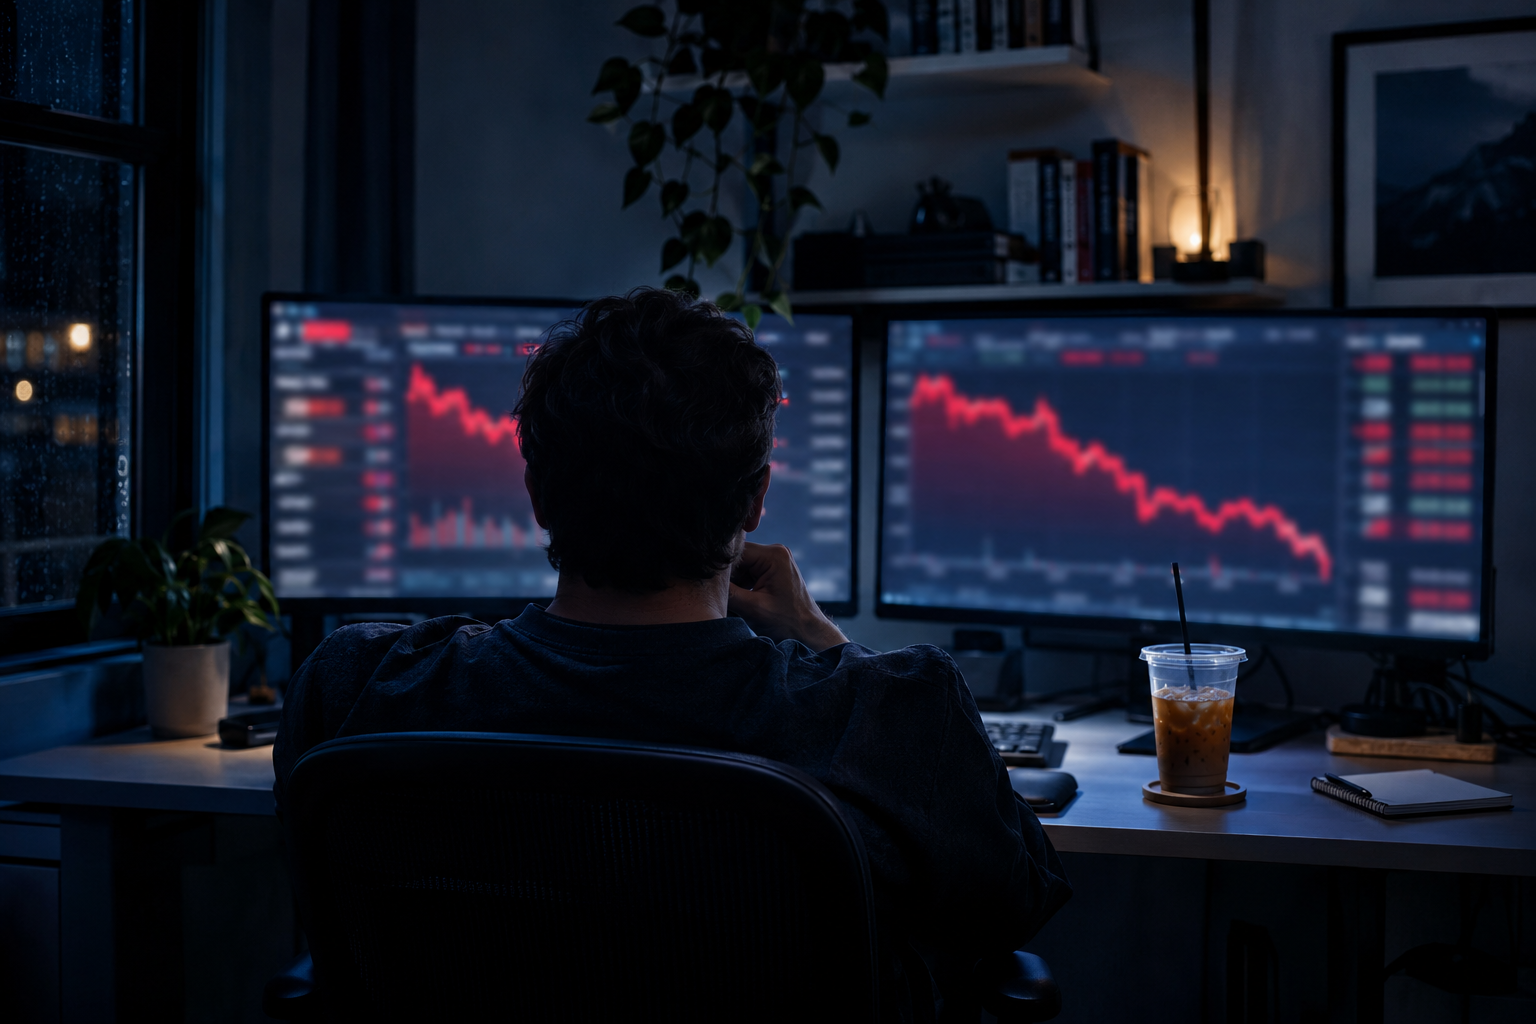
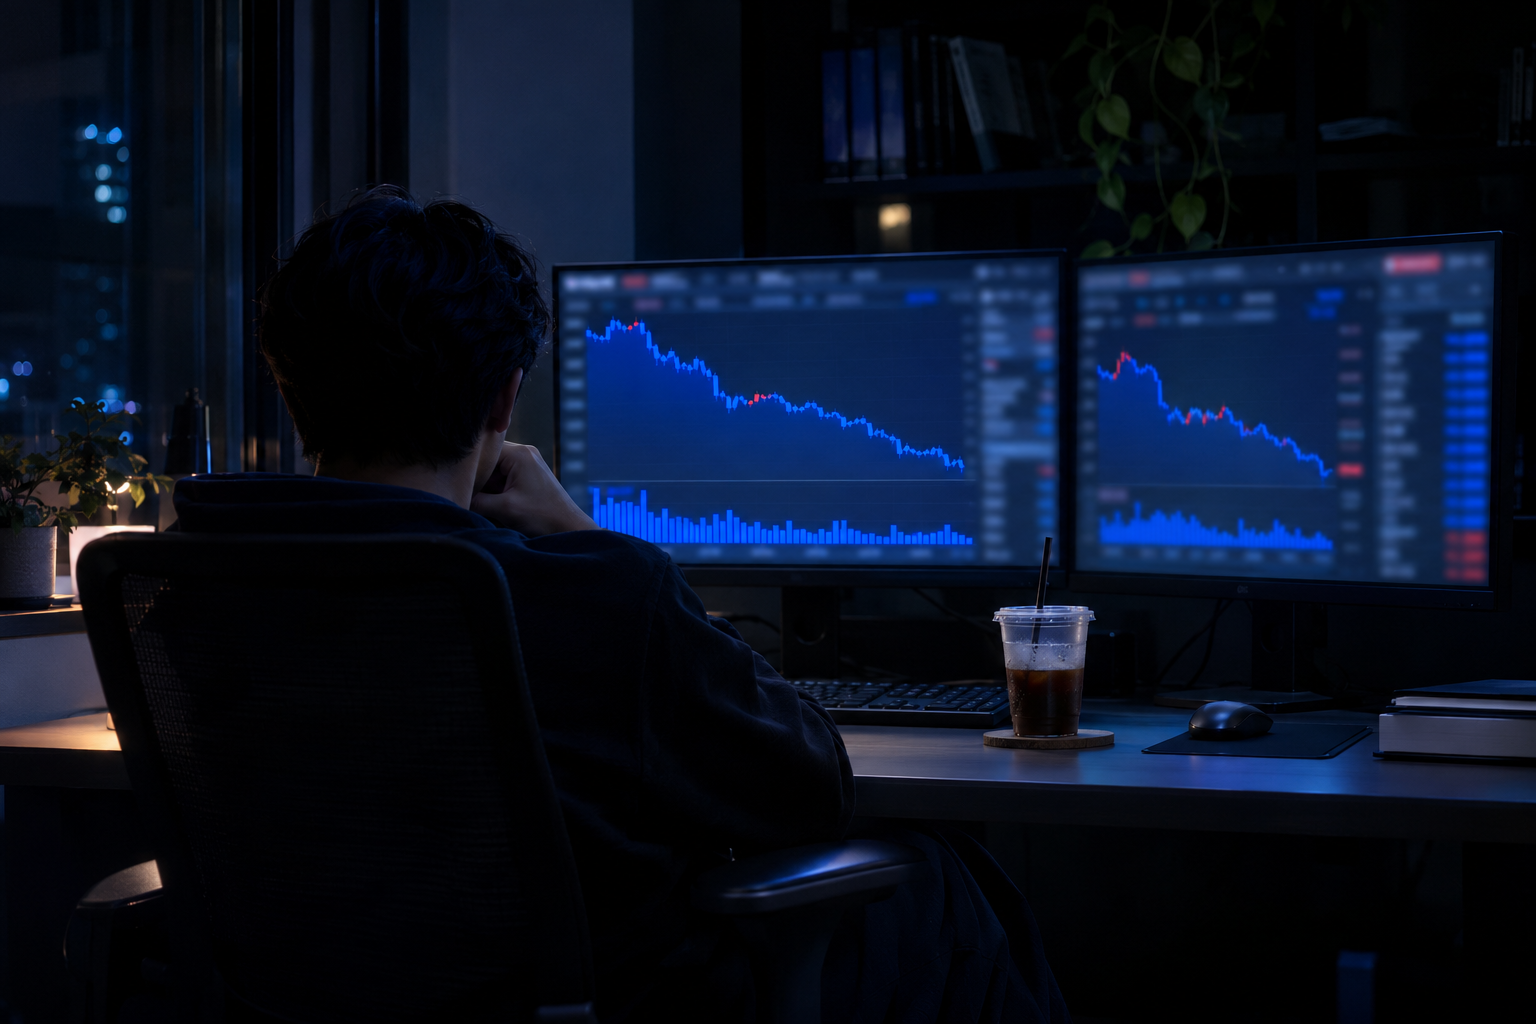
레버리지 ETF 글: 파란 하락 차트로 다시 받은 사진 02·05 적용

diff --git a/AGENTS.md b/AGENTS.md
@@ -139,7 +139,7 @@
   - **금융상품 글 기준(위 검수에서 배운 점)**: 예시 계산의 결론은 '조건(가격 경로)에 따라 달라진다'로 한정하고 반대 경우도 함께 쓴다. 규제는 적용 대상(어떤 상품, 누구)을 소제목이나 첫 문장에 밝히고, 같은 날 시행돼도 대상이 다른 규칙은 나눠 쓴다. 거래대금 같은 숫자에는 기준(하루·누적)을 붙인다.
   - 새 기준을 처음부터 적용: 도식 5장에 성격별 테두리(03 얇은 선+달력, 04 카드, 06 왼쪽 빨간 띠, 07 경고 꺾쇠+엑스, 09 겹선+행 아이콘), 만화 없음, 타이틀 요청에 테두리 줄 포함(빨간 굵은 테두리).
   - 이미지 9장이 모두 `images/`에 있다: AI 제작 03·04·06·07·09, ChatGPT 제작 01 타이틀(3D, 요청 단계부터 빨간 테두리 포함 — 처음 적용해 잘 나옴)·02 휴대폰 하락 차트·05 밤 모니터 앞 뒷모습·08 온라인 강의(실사). 대기 중인 이미지 요청 없음. 남은 일은 사용자의 네이버 발행뿐이다.
-  - 사용자 결정(2026-11-17): 차트 색을 한국 주식 관례로 바꿨다. 도식 03·04·06·07을 상승 빨강·하락 파랑으로 다시 만들었고, ChatGPT 02·05(하락이 빨강)는 파란 하락 차트로 다시 요청했다(`이미지요청.md` 대기 중, 지금 `images/`에 있는 02·05는 빨간 버전). 01 타이틀은 경고 의미의 빨간 테마라 그대로 두었다.
+  - 사용자 결정(2026-11-17): 차트 색을 한국 주식 관례로 바꿨다. 도식 03·04·06·07을 상승 빨강·하락 파랑으로 다시 만들었고, ChatGPT 02·05(하락이 빨강)는 파란 하락 차트로 다시 받아 바꿔 넣었다. 대기 중인 이미지 요청 없음. 01 타이틀은 경고 의미의 빨간 테마라 그대로 두었다.
 - 2026-11-17: `문서/네이버-코딩가이드/20261117_초소형카메라-규제/index.html` 작성("초소형 카메라, 아무나 사도 될까? 11년째 멈춰 있는 '변형카메라 관리법'", 카테고리 컴퓨터·IT, 원문 확인·보강·검수 반영 후 공백 포함 5,130자, 사용자 요청 분량 4,500~6,000자). 사용자가 "소형카메라에 대해 쓸 건 있을까?"라고 물어 3개 방향을 제안했고, 2번(초소형·위장 카메라 규제)을 골랐다. X 트렌드 '초소형 카메라' 이틀째 상위. 구성: 2015년 첫 법안으로 시작 → 결론(판매는 막지 않음, 찍는 행동·전파 인증만) → 11년 연표와 법안 내용 → 반대 이유(카메라는 일상 물건, '변형' 기준) + 찬성 + 글쓴이의 실효성 걱정 → 중국·대만 → 이번에는(정부 유통 실태 점검, 공중화장실법 2026.7 개정) + 개인 점검법 → 글쓴이 생각으로 마무리.
   - 원문 확인 기사 6건(이코노미톡·매일신문 11/17, 시사위크 2021, 보안뉴스 2026.7, Taipei Times 2026.5, Sixth Tone 2025.2)은 글 맨 위 주석에 있다. 22대 국회 새 법안 여부, 판매 가격, 공중화장실법 시행일은 확인하지 못해 쓰지 않았다. 박지현 전 비대위원장의 페이스북 주장은 이름 없이 "정치권에서도"로 썼다.
   - 2026-11-17 사용자가 "연표 문단은 무엇을 참조했나"고 물어, 국회 의안정보시스템(의안명 '변형카메라', 19~22대)과 정책브리핑 원문으로 확인해 고쳤다: 법안 5건(2015.9.18·2017.8.11·2018.8.31·2021.3.25·2021.9.24, 모두 임기만료폐기, 22대엔 같은 이름 법안 없음). 2017.9.26 정부 종합대책은 '변형카메라 판매규제' 과제를 담았다는 것까지만 공식 확인되어, 기사에만 있던 "판매자 등록·유통 이력 시스템" 표현은 뺐다. **법안·정책 연혁은 기사가 아니라 의안정보시스템·정부 원문으로 날짜를 확인한다.**

diff --git a/이미지요청.md b/이미지요청.md
@@ -4,19 +4,4 @@
 - 만든 이미지는 `자료실/제작-이미지` 폴더에 아래 **파일명 그대로** 저장해 주세요.
 - 타이틀(01) 이미지는 항상 **눈에 띄는 테두리**를 넣어 주세요. 색·굵기·모양은 각 요청에 적습니다.
 
-## 네이버 글 「레버리지 ETF, 2배로 오르면 2배 버는 게 아니었다」 — 차트 색 다시 요청
-
-이전에 받은 02·05는 하락 차트가 빨간색이었습니다. **한국 주식 화면 관례(오르면 빨강, 내리면 파랑)**에 맞춰 하락 차트를 **파란색**으로 다시 만들어 주세요. 나머지 조건은 같습니다.
-
-공통 조건
-- 증권사·거래소·운용사 이름과 로고, 실제 종목명·종목 코드, 읽을 수 있는 숫자나 글자는 넣지 않는다.
-- 사람 얼굴이 나오지 않게 한다(손, 뒷모습 위주). 만화·말풍선은 쓰지 않는다.
-- 차트에서 내려가는 선과 하락 막대는 파란색(#2463d6 계열), 오르는 부분이 있다면 빨간색.
-
-### 1. `02-하락-차트-실사.png`
-- 종류: 실사풍 사진, 가로 3:2
-- 내용: 손에 든 스마트폰 화면에 **파란 선**이 크게 내려가는 주식 차트(숫자·종목명은 흐리게, 읽을 수 없게). 배경은 흐린 사무실 책상.
-
-### 2. `05-모니터-앞-실사.png`
-- 종류: 실사풍 사진, 가로 3:2
-- 내용: 늦은 밤 어두운 방, 모니터 두 대에 **파란 하락 차트**가 떠 있고 그 앞에 의자에 앉은 사람의 뒷모습. 책상 위 식은 커피 한 잔. 화면의 글자·숫자는 읽을 수 없게.
+(현재 요청 없음)
